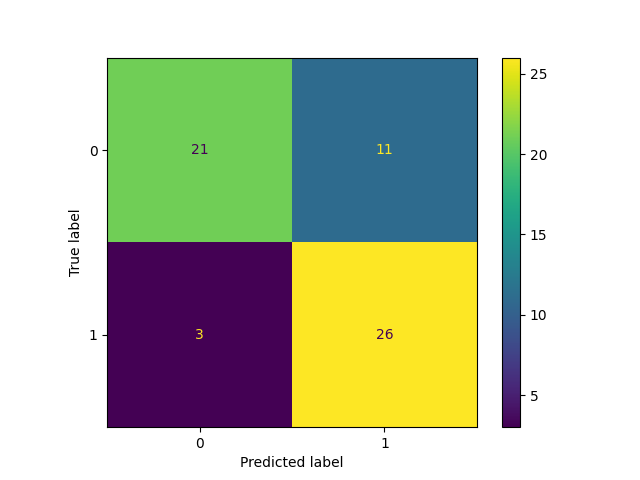
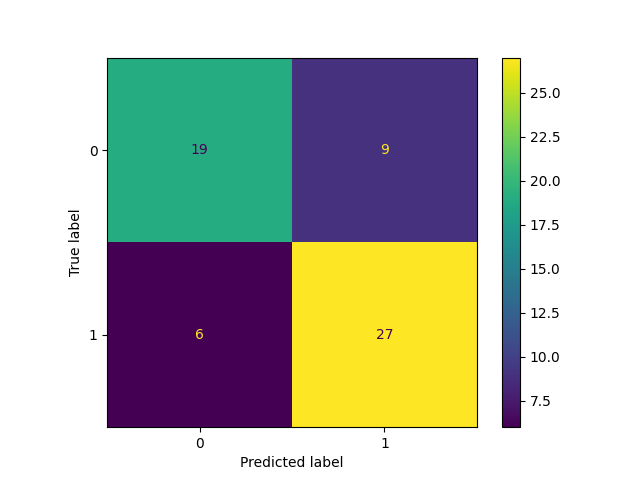
fix : 3# changes in  issue Heart disease prediction with SVM

diff --git a/src/svm.py b/src/svm.py
@@ -19,33 +19,24 @@ class SupportVectorMachines:  # pylint: disable= R0902
     def __str__(self):
         return self.__class__.__name__
 
-    def __init__(self, x_data, y_data):
+    def __init__(self, x_data, y_data, param_grid):
         """
             constructor with parameters   of  Support Vector Machines class
         """
-        self.x_data = x_data
-        self.y_data = y_data
         self.clf = None
         self.x_train, self.x_test, self.y_train, self.y_test = train_test_split(x_data, y_data, test_size=0.2)
-        self.svc_model = svm.SVC(kernel='linear')
+        self.param_grid = param_grid
+        self.svc_model = svm.SVC()
 
     def s_v_m(self):
         """
              function svm for  predicting score and gird search
         """
 
-        self.svc_model.fit(self.x_train, self.y_train)
-        # data = pd.DataFrame({'Actual': self.y_test, 'Predicted': y_pred})
-        score = self.svc_model.score(self.x_train, self.y_train)
-        print(score)
-        parameters = {'kernel': ('linear', 'rbf'), 'C': [5, 10]}
-        self.clf = GridSearchCV(self.svc_model, parameters)
-        GridSearchCV(estimator=self.svc_model,
-                     param_grid={'C': [5, 10], 'kernel': ('linear', 'rbf')})
+        self.clf = GridSearchCV(estimator=self.svc_model,
+                                param_grid=self.param_grid)
         self.clf.fit(self.x_train, self.y_train)
         cv_rests = self.clf.cv_results_
-        self.svc_model.fit(self.x_train, self.y_train)
-        self.svc_model.predict(self.x_test)
         result = pd.DataFrame({'score': cv_rests["mean_test_score"],
                                'parameters': cv_rests["params"]})
         return result
@@ -62,16 +53,15 @@ class SupportVectorMachines:  # pylint: disable= R0902
         if not os.path.isdir(path_result):
             if not os.path.exists(path_result):
                 os.makedirs(os.path.join(parent_dir, directory), exist_ok=True)
-                result_path = os.path.join(directory, directory_result)
-                csv_result = pd.DataFrame(csv_result)
-                csv_result.to_csv(result_path, index=False)
+        result_path = os.path.join(directory, directory_result)
+        csv_result = pd.DataFrame(csv_result)
+        csv_result.to_csv(result_path, index=False)
         return csv_result
 
     def plotting_svm(self):
         """
             method for plotting  the confusion matrix
         """
-        self.svc_model.predict(self.x_test)
         plot_confusion_matrix(self.clf.best_estimator_, self.x_test, self.y_test)
         path_dir = os.getcwd()
         directory = path_dir + '/Plotting_SVM'

diff --git a/main.py b/main.py
@@ -20,9 +20,10 @@ if __name__ == '__main__':
 # d.save_results()
 dataset = pd.read_csv('https://raw.githubusercontent.com/Parkash9967/Test/master/heart.csv')
 
+param_grid = {'C': [5, 10], 'kernel': ('linear', 'rbf')}
 s = SupportVectorMachines(dataset[['age', 'sex', 'cp', 'trestbps', 'chol', 'fbs', 'restecg', 'thalach', 'exang',
-                          'oldpeak', 'slope', 'ca', 'thal']],
-                          dataset['target'])
+                                   'oldpeak', 'slope', 'ca', 'thal']],
+                          dataset['target'], param_grid)
 print(s.s_v_m())
 print(s.save_result_csv())
-s.plotting_svm()
+# s.plotting_svm()

diff --git a/tests/svm.py b/tests/svm.py
@@ -14,10 +14,11 @@ class MyTestCase(unittest.TestCase):
 
     def setUp(self):
         dataset = pd.read_csv('https://raw.githubusercontent.com/Parkash9967/Test/master/heart.csv')
+        param_grid = {'C': [5, 10], 'kernel': ('linear', 'rbf')}
         self.data = SupportVectorMachines(
             dataset[['age', 'sex', 'cp', 'trestbps', 'chol', 'fbs', 'restecg', 'thalach', 'exang',
                      'oldpeak', 'slope', 'ca', 'thal']],
-            dataset['target'])
+            dataset['target'], param_grid)
 
     def test_s_v_m(self):
         """
